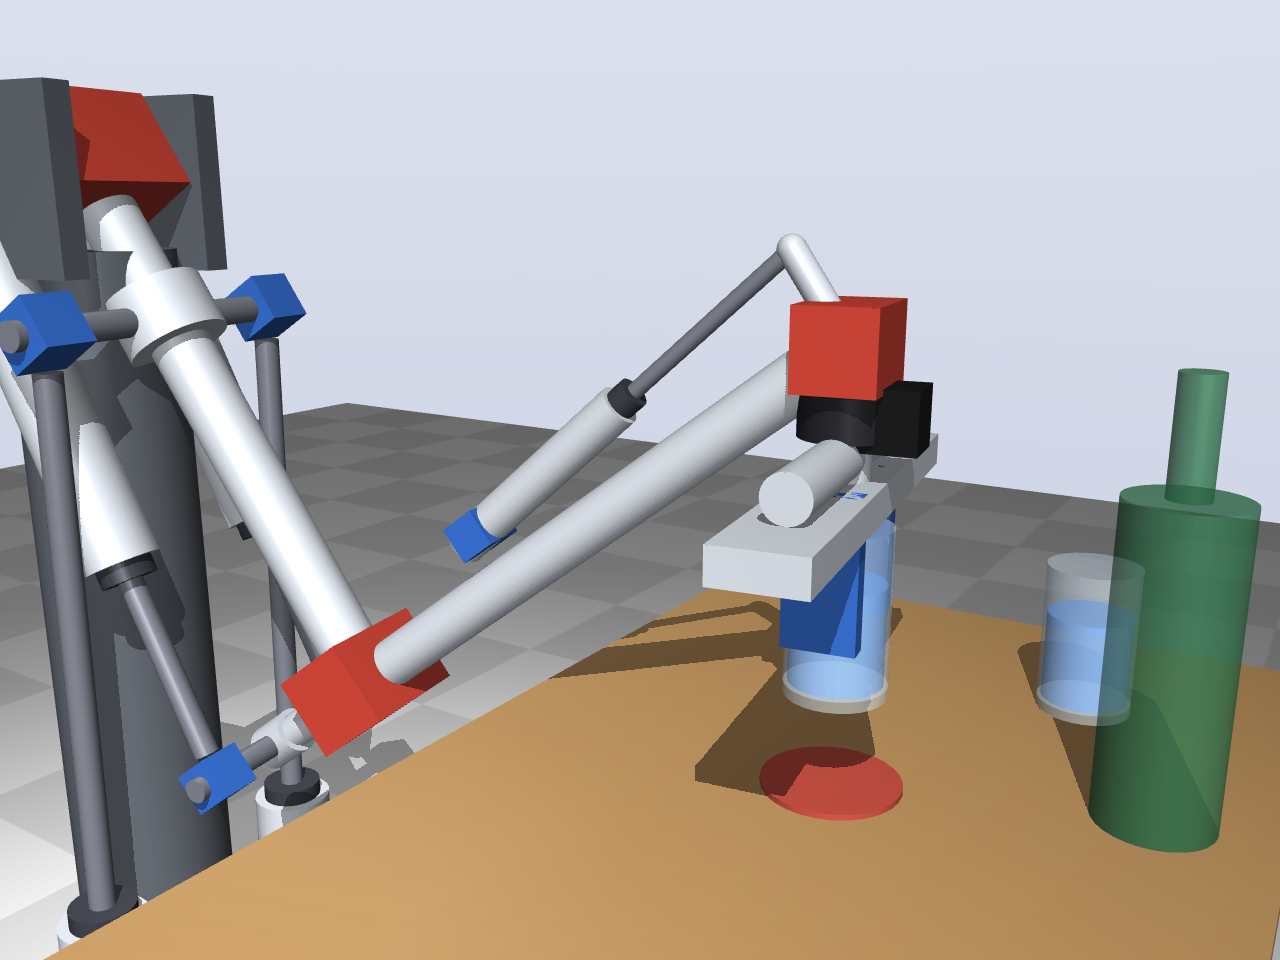
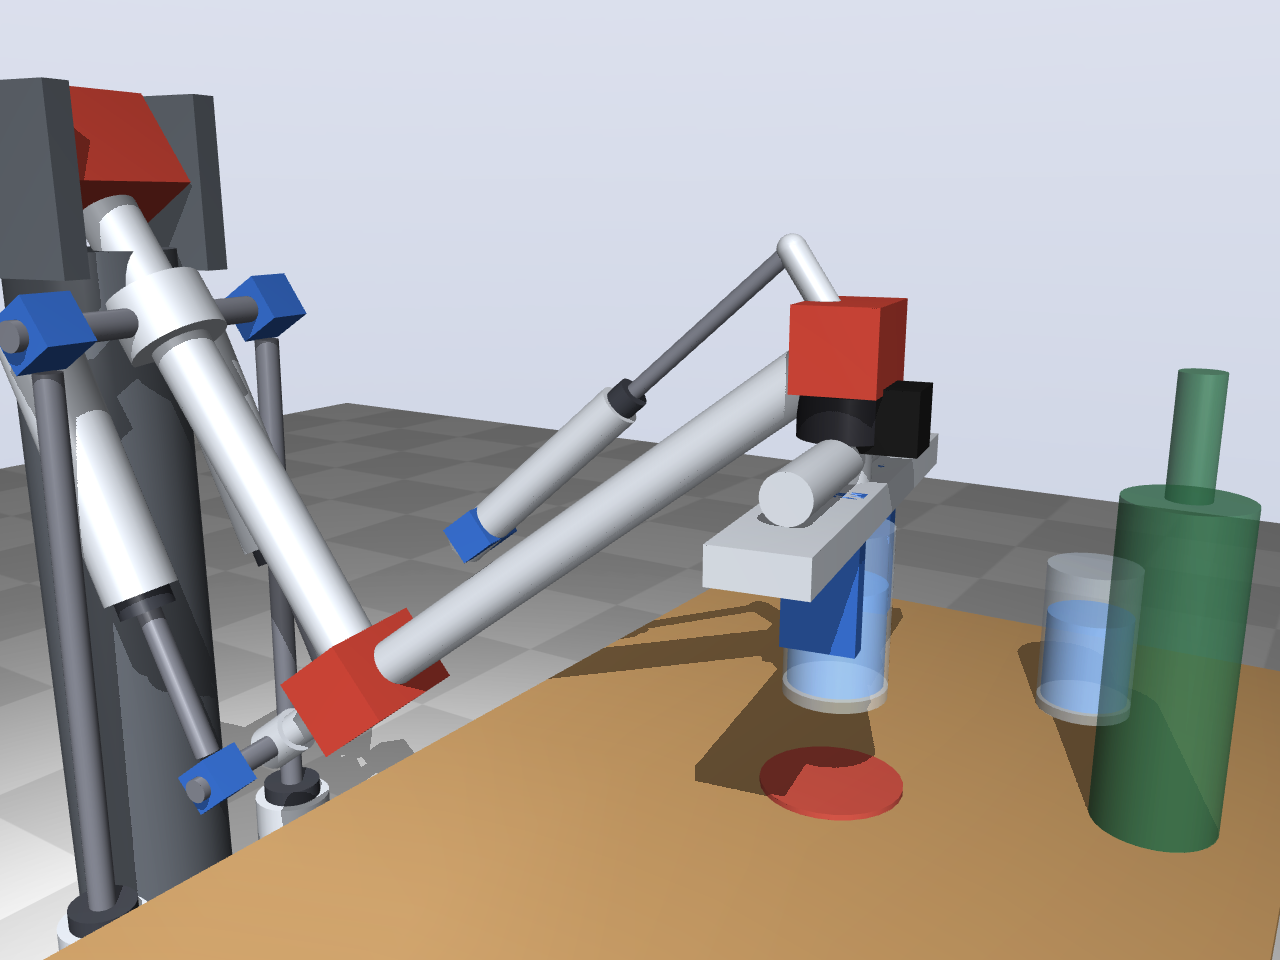
full-arm: elbow-down triceps cylinders shorter (compact Ø50 × 160) and closer to the elbow (rear pivots 15 cm from the shoulder)

diff --git a/full-arm/elbow.py b/full-arm/elbow.py
@@ -34,7 +34,10 @@ LAYOUTS = {
     "triceps": dict(low_along=0.02, low_side=0.08, low_up=0.13, hub_along=-0.10, hub_side=0.08),
     # arm turned over, like a human arm: upper arm hanging down, elbow below the shoulder,
     # cylinders behind the upper arm pushing the lever behind the elbow to lift
-    "triceps_down": dict(low_along=0.06, low_side=0.08, low_up=-0.06, hub_along=-0.12, hub_side=0.08, down=True),
+    # (compact Ø50 × 160 cylinders: rear pivots 15 cm from the shoulder, 6 cm behind the arm;
+    #  elbow 60–110°, forearm roll ±15°)
+    "triceps_down": dict(low_along=0.15, low_side=0.08, low_up=-0.06, hub_along=-0.12, hub_side=0.08, down=True,
+                         body=0.20),
 }
 DOWN = False
 LAYOUT = "biceps"

diff --git a/full-arm/concept.py b/full-arm/concept.py
@@ -157,7 +157,7 @@ def build(scene="wall"):
         lo = pivot + s * K.LOW_SIDE * yu
         box(h, (0.018, 0.018, 0.018), BLUE, Rf)
         box(lo, (0.018, 0.018, 0.018), BLUE, Ru)
-        cylinder(lo, h - 0.022 * (h - lo) / np.linalg.norm(h - lo), ELBOW_CYL_D / 2, 0.30 if K.HUB_ALONG > 0 else 0.26, 0.01)
+        cylinder(lo, h - 0.022 * (h - lo) / np.linalg.norm(h - lo), ELBOW_CYL_D / 2, K.LAYOUTS[K.LAYOUT].get("body", 0.30 if K.HUB_ALONG > 0 else 0.26), 0.01)
 
     # wrist: joint, small cylinder along the forearm, yaw motor, gripper
     box(W, (0.028, 0.04, 0.028), RED, Rw)

diff --git a/full-arm/README.md b/full-arm/README.md
@@ -135,7 +135,9 @@ the gripper's yaw motor keeps the jaws square to the arm). Shoulder pitch 64°, 
 ![Glass, side](out/render_glass_side.png)
 
 The same with the upper arm hanging down (shoulder at 1.15 m, elbow cylinders behind the
-upper arm, 60 mm from it, pushing the lever behind the elbow). Render only; the shoulder cylinders are
+upper arm, 60 mm from it and 15 cm from the shoulder: compact Ø50 × 160 cylinders, 27–41 cm pin
+to pin, for an elbow range of 60–110° with ±15° forearm roll, pushing the lever behind the
+elbow). Render only; the shoulder cylinders are
 still drawn in the test 2 layout, which does not suit this posture.
 
 ![Glass, upper arm down](out/render_glass_triceps_down_oblique.png)
